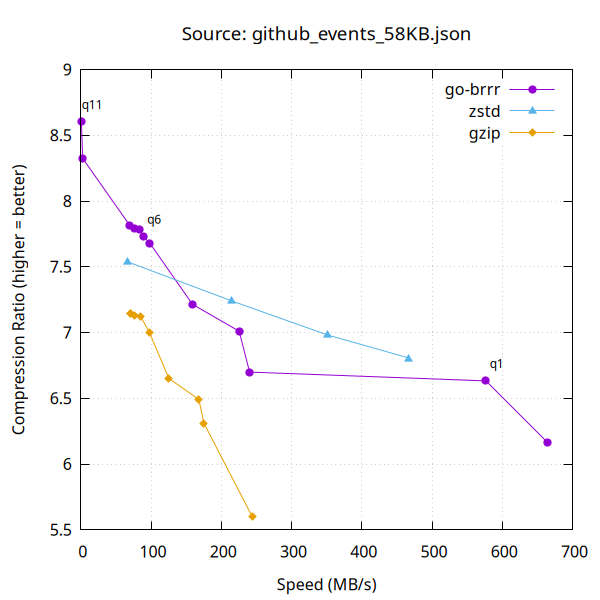
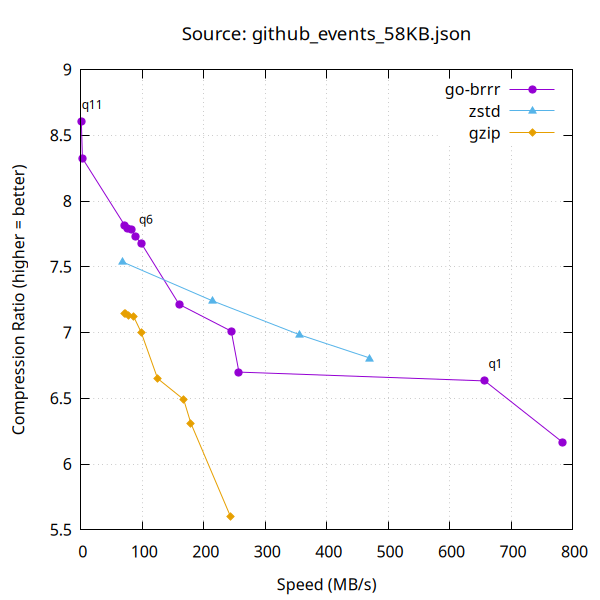
docs: re-do compression benchmarks before releasing

diff --git a/README.md b/README.md
@@ -133,19 +133,19 @@ Read these rows as repeated complete-stream compression through the Go APIs. The
 <!-- bench:compress -->
 | | go-brrr (sec/op) | andybalholm (sec/op) | cbrotli (sec/op) |
 | --- | --- | --- | --- |
-| CompressOneshot/q=0/payload=VariedPayloads | 7.527m ± 0% | 12.331m ± 1%   +63.83% (p=0.000 n=8) | 6.862m ± 0%    -8.83% (p=0.000 n=8) |
-| CompressOneshot/q=1/payload=VariedPayloads | 10.22m ± 0% | 20.18m ± 0%   +97.40% (p=0.000 n=8) | 10.79m ± 0%    +5.60% (p=0.000 n=8) |
-| CompressOneshot/q=2/payload=VariedPayloads | 15.97m ± 0% | 38.52m ± 2%  +141.23% (p=0.000 n=8) | 18.15m ± 0%   +13.67% (p=0.000 n=8) |
-| CompressOneshot/q=3/payload=VariedPayloads | 17.04m ± 0% | 43.88m ± 3%  +157.49% (p=0.000 n=8) | 20.96m ± 0%   +23.00% (p=0.000 n=8) |
-| CompressOneshot/q=4/payload=VariedPayloads | 25.35m ± 0% | 63.43m ± 1%  +150.18% (p=0.000 n=8) | 29.96m ± 0%   +18.16% (p=0.000 n=8) |
-| CompressOneshot/q=5/payload=VariedPayloads | 36.66m ± 0% | 80.79m ± 1%  +120.39% (p=0.000 n=8) | 47.35m ± 0%   +29.16% (p=0.000 n=8) |
-| CompressOneshot/q=6/payload=VariedPayloads | 43.79m ± 0% | 91.85m ± 1%  +109.75% (p=0.000 n=8) | 55.07m ± 0%   +25.77% (p=0.000 n=8) |
-| CompressOneshot/q=7/payload=VariedPayloads | 51.67m ± 0% | 127.63m ± 3%  +147.00% (p=0.000 n=8) | 69.35m ± 0%   +34.22% (p=0.000 n=8) |
-| CompressOneshot/q=8/payload=VariedPayloads | 60.79m ± 0% | 147.37m ± 1%  +142.43% (p=0.000 n=8) | 82.54m ± 1%   +35.78% (p=0.000 n=8) |
-| CompressOneshot/q=9/payload=VariedPayloads | 75.49m ± 0% | 211.12m ± 4%  +179.67% (p=0.000 n=8) | 236.02m ± 1%  +212.65% (p=0.000 n=8) |
-| CompressOneshot/q=10/payload=VariedPayloads | 1220.4m ± 0% | 1375.6m ± 1%   +12.72% (p=0.000 n=8) | 861.9m ± 0%   -29.38% (p=0.000 n=8) |
-| CompressOneshot/q=11/payload=VariedPayloads | 2.948 ± 1% | 3.433 ± 1%   +16.47% (p=0.000 n=8) | 2.270 ± 0%   -22.98% (p=0.000 n=8) |
-| **geomean** | 54.76m | 111.6m       +103.71% | 65.12m        +18.93% |
+| CompressOneshot/q=0/payload=VariedPayloads | 6.610m ± 0% | 12.299m ± 0%   +86.06% (p=0.000 n=8) | 6.854m ± 0%    +3.68% (p=0.000 n=8) |
+| CompressOneshot/q=1/payload=VariedPayloads | 10.19m ± 0% | 20.17m ± 0%   +97.93% (p=0.000 n=8) | 10.80m ± 0%    +6.02% (p=0.000 n=8) |
+| CompressOneshot/q=2/payload=VariedPayloads | 15.24m ± 0% | 37.71m ± 1%  +147.38% (p=0.000 n=8) | 17.95m ± 0%   +17.79% (p=0.000 n=8) |
+| CompressOneshot/q=3/payload=VariedPayloads | 16.18m ± 0% | 43.39m ± 1%  +168.15% (p=0.000 n=8) | 20.73m ± 0%   +28.13% (p=0.000 n=8) |
+| CompressOneshot/q=4/payload=VariedPayloads | 25.16m ± 0% | 62.69m ± 2%  +149.15% (p=0.000 n=8) | 30.06m ± 0%   +19.46% (p=0.000 n=8) |
+| CompressOneshot/q=5/payload=VariedPayloads | 36.82m ± 0% | 81.14m ± 3%  +120.38% (p=0.000 n=8) | 47.30m ± 0%   +28.47% (p=0.000 n=8) |
+| CompressOneshot/q=6/payload=VariedPayloads | 43.89m ± 0% | 90.40m ± 1%  +105.99% (p=0.000 n=8) | 54.64m ± 0%   +24.49% (p=0.000 n=8) |
+| CompressOneshot/q=7/payload=VariedPayloads | 51.60m ± 0% | 126.63m ± 2%  +145.41% (p=0.000 n=8) | 109.60m ± 0%  +112.41% (p=0.000 n=8) |
+| CompressOneshot/q=8/payload=VariedPayloads | 60.37m ± 0% | 147.50m ± 2%  +144.31% (p=0.000 n=8) | 80.89m ± 0%   +33.98% (p=0.000 n=8) |
+| CompressOneshot/q=9/payload=VariedPayloads | 74.99m ± 0% | 209.73m ± 2%  +179.67% (p=0.000 n=8) | 235.43m ± 0%  +213.95% (p=0.000 n=8) |
+| CompressOneshot/q=10/payload=VariedPayloads | 1210.6m ± 0% | 1371.8m ± 2%   +13.32% (p=0.000 n=8) | 858.2m ± 0%   -29.11% (p=0.000 n=8) |
+| CompressOneshot/q=11/payload=VariedPayloads | 2.946 ± 1% | 3.423 ± 0%   +16.19% (p=0.000 n=8) | 2.264 ± 0%   -23.15% (p=0.000 n=8) |
+| **geomean** | 53.61m | 110.8m       +106.75% | 67.33m        +25.61% |
 <!-- /bench:compress -->
 
 *Streaming* uses `brrr.NewReader` + `io.ReadAll`; *one-shot* uses `brrr.Decompress` on a complete in-memory blob.